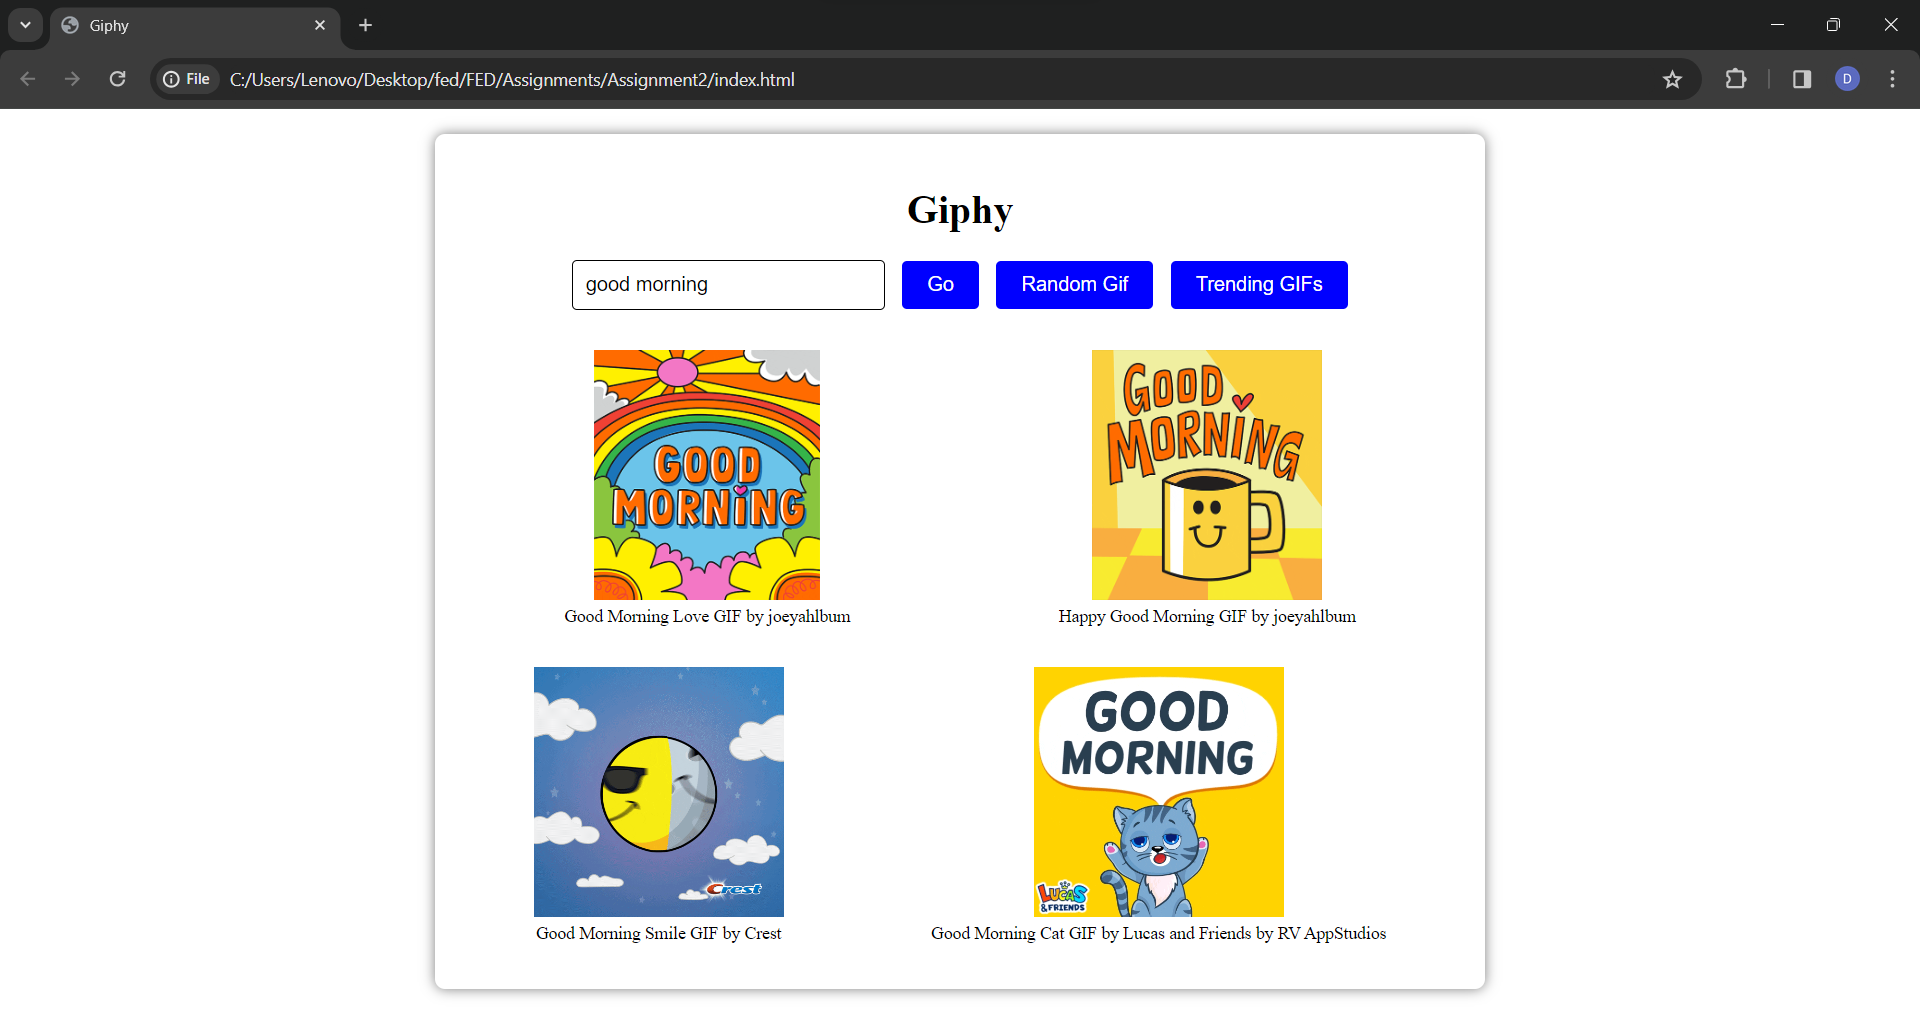
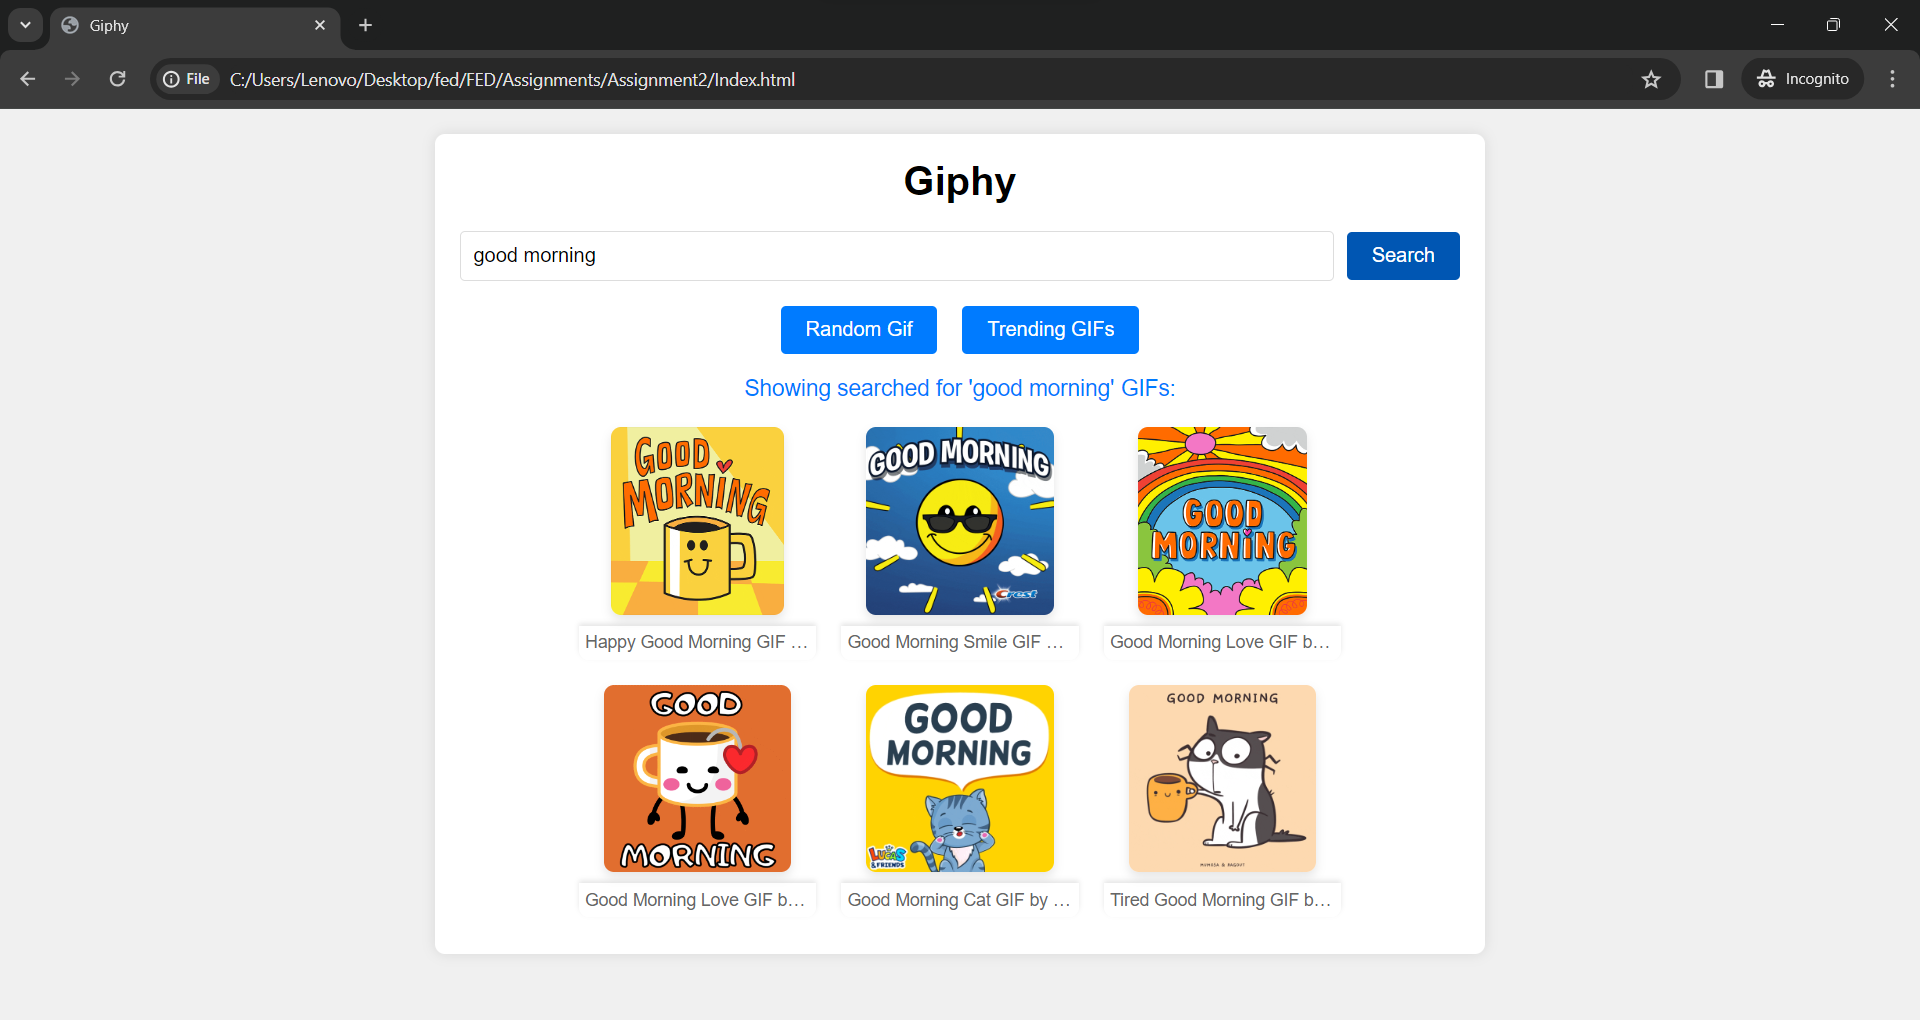
Assignments

diff --git a/Assignments/Assignment2/Index.html b/Assignments/Assignment2/Index.html
@@ -1,121 +1,182 @@
-<html>
-  <html lang="en">
-    <head>
-      <title>Giphy</title>
-      <style>
-        main {
-          max-width: 800px;
-          margin: 20px auto;
-          padding: 20px;
-          text-align: center;
-          background-color: #fff;
-          border-radius: 8px;
-          box-shadow: 0 0 10px rgba(0, 0, 0, 0.5);
-        }
-        input {
-          padding: 10px;
-          width: 250px;
-          font-size: 16px;
-          border: 1px solid;
-          border-radius: 4px;
-        }
-        button {
-          padding: 10px 20px;
-          background-color: blue;
-          color: #fff;
-          border: none;
-          border-radius: 4px;
-          font-size: 16px;
-          margin-left: 10px;
-        }
-        .out {
-          display: flex;
-          flex-wrap: wrap;
-          justify-content: space-around;
-        }
-        img {
-          max-height: 200px;
-        }
-        figcaption {
-          margin-top: 5px;
-          font-size: 14px;
-        }
-      </style>
-    </head>
-    <body>
-      <main>
-        <center><h1>Giphy</h1></center>
-        <form>
-          <input id="search" placeholder="Search" />
-          <button id="btnSearch">Go</button>
-          <button id="btnRandom">Random Gif</button>
-          <button id="btnTrending">Trending GIFs</button>
-        </form>
-        <div class="out"></div>
-      </main>
-      <script>
-        const APIKEY = "OHJEWRMziwiQSLZKCXX7Kb343kx1OIgg";
+<!DOCTYPE html>
+<html lang="en">
+<head>
+  <meta charset="UTF-8">
+  <meta name="viewport" content="width=device-width, initial-scale=1.0">
+  <title>Giphy</title>
+  <style>
+    body {
+      font-family: Arial, sans-serif;
+      background-color: #f0f0f0;
+      margin: 0;
+      padding: 0;
+    }
+    main {
+      max-width: 800px;
+      margin: 20px auto;
+      padding: 20px;
+      text-align: center;
+      background-color: #fff;
+      border-radius: 8px;
+      box-shadow: 0 0 10px rgba(0, 0, 0, 0.1);
+    }
+    h1 {
+      margin-top: 0;
+    }
+    form {
+      margin-bottom: 20px;
+      display: flex;
+      justify-content: center;
+      align-items: center;
+    }
+    input[type="text"] {
+      padding: 10px;
+      width: calc(100% - 120px);
+      font-size: 16px;
+      border: 1px solid #ddd;
+      border-radius: 4px;
+      margin-right: 10px;
+    }
+    button.search {
+      padding: 10px 20px;
+      background-color: #007bff;
+      color: #fff;
+      border: none;
+      border-radius: 4px;
+      font-size: 16px;
+      cursor: pointer;
+    }
+    button.search:hover {
+      background-color: #0056b3;
+    }
+    .button-section {
+      display: flex;
+      justify-content: center;
+    }
+    .button-section button {
+      margin: 0 10px;
+      padding: 10px 20px;
+      background-color: #007bff;
+      color: #fff;
+      border: none;
+      border-radius: 4px;
+      font-size: 16px;
+      cursor: pointer;
+    }
+    .button-section button:hover {
+      background-color: #0056b3;
+    }
+    .out {
+      display: flex;
+      flex-wrap: wrap;
+      justify-content: center;
+    }
+    figure {
+      margin: 10px;
+    }
+    img {
+      max-width: 200px;
+      max-height: 150px;
+      height: auto;
+      border-radius: 8px;
+      box-shadow: 0 4px 8px rgba(0, 0, 0, 0.1);
+    }
+    figcaption {
+      margin-top: 5px;
+      font-size: 14px;
+      color: #666;
+      padding: 5px;
+      background-color: rgba(255, 255, 255, 0.8);
+      border-radius: 0 0 8px 8px;
+      box-shadow: 0 -2px 4px rgba(0, 0, 0, 0.1);
+      overflow: hidden;
+      text-overflow: ellipsis;
+      white-space: nowrap;
+      max-width: 180px;
+    }
+    #actionMessage {
+      margin-bottom: 10px;
+      font-size: 18px;
+      color: #007bff;
+    }
+  </style>
+</head>
+<body>
+  <main>
+    <h1>Giphy</h1>
+    <form>
+      <input type="text" id="search" placeholder="Search">
+      <button type="button" class="search" id="btnSearch">Search</button>
+    </form>
+    <div class="button-section">
+      <button type="button" id="btnRandom">Random Gif</button>
+      <button type="button" id="btnTrending">Trending GIFs</button>
+    </div>
+    <p id="actionMessage"></p>
+    <div class="out"></div>
+  </main>
+  <script>
+    const APIKEY = "OHJEWRMziwiQSLZKCXX7Kb343kx1OIgg";
 
-        function fetchGifs(url) {
-          fetch(url)
-            .then((response) => response.json())
-            .then((content) => {
-              console.log(content);
-              let out = document.querySelector(".out");
-              out.innerHTML = "";
+    function fetchGifs(url, action) {
+      fetch(url)
+        .then((response) => response.json())
+        .then((content) => {
+          const out = document.querySelector(".out");
+          const actionMessage = document.getElementById("actionMessage");
+          out.innerHTML = ""; // Clear previous results
 
-              if (content.data && Array.isArray(content.data)) {
-                content.data.forEach((gifData) => {
-                  let fig = document.createElement("figure");
-                  let img = document.createElement("img");
-                  let fc = document.createElement("figcaption");
+          // Display action message
+          actionMessage.textContent = `Showing ${action} GIFs:`;
 
-                  img.src = gifData.images.original.url;
-                  console.log(img.src);
+          if (content.data && Array.isArray(content.data)) {
+            content.data.forEach((gifData) => {
+              const fig = document.createElement("figure");
+              const img = document.createElement("img");
+              const fc = document.createElement("figcaption");
 
-                  fc.textContent = gifData.title;
-                  fig.appendChild(img);
-                  fig.appendChild(fc);
-                  out.appendChild(fig);
-                });
-              } else if (content.data && content.data.images) {
-                let fig = document.createElement("figure");
-                let img = document.createElement("img");
-                let fc = document.createElement("figcaption");
+              img.src = gifData.images.original.url;
+              fc.textContent = gifData.title;
 
-                img.src = content.data.images.original.url;
-                console.log(img.src);
-
-                fc.textContent = content.data.title;
-                fig.appendChild(img);
-                fig.appendChild(fc);
-                out.appendChild(fig);
-              }
-            })
-            .catch((err) => {
-              console.error(err);
+              fig.appendChild(img);
+              fig.appendChild(fc);
+              out.appendChild(fig);
             });
-        }
+          } else if (content.data && content.data.images) {
+            const fig = document.createElement("figure");
+            const img = document.createElement("img");
+            const fc = document.createElement("figcaption");
 
-        document.getElementById("btnSearch").addEventListener("click", (ev) => {
-          ev.preventDefault();
-          let url = `https://api.giphy.com/v1/gifs/search?api_key=${APIKEY}&limit=4&q=`;
-          let str = document.getElementById("search").value.trim();
-          url = url.concat(str);
-          fetchGifs(url);
-        });
+            img.src = content.data.images.original.url;
+            fc.textContent = content.data.title;
 
-        document.getElementById("btnRandom").addEventListener("click", (ev) => {
-          ev.preventDefault();
-          let url = `https://api.giphy.com/v1/gifs/random?api_key=${APIKEY}`;
-          fetchGifs(url);
+            fig.appendChild(img);
+            fig.appendChild(fc);
+            out.appendChild(fig);
+          }
+        })
+        .catch((err) => {
+          console.error(err);
         });
-        document.getElementById("btnTrending").addEventListener("click", (ev) => {
-            ev.preventDefault();
-            let url = `https://api.giphy.com/v1/gifs/trending?api_key=${APIKEY}&limit=4`;
-            fetchGifs(url);
-          });
-      </script>
-    </body>
-  </html>
+    }
+
+    document.getElementById("btnSearch").addEventListener("click", () => {
+      const searchTerm = document.getElementById("search").value.trim();
+      if (searchTerm !== "") {
+        const url = `https://api.giphy.com/v1/gifs/search?api_key=${APIKEY}&limit=6&q=${encodeURIComponent(searchTerm)}`;
+        fetchGifs(url, `searched for '${searchTerm}'`);
+      }
+    });
+
+    document.getElementById("btnRandom").addEventListener("click", () => {
+      const url = `https://api.giphy.com/v1/gifs/random?api_key=${APIKEY}`;
+      fetchGifs(url, "random");
+    });
+
+    document.getElementById("btnTrending").addEventListener("click", () => {
+      const url = `https://api.giphy.com/v1/gifs/trending?api_key=${APIKEY}&limit=6`;
+      fetchGifs(url, "trending");
+    });
+  </script>
+</body>
 </html>
